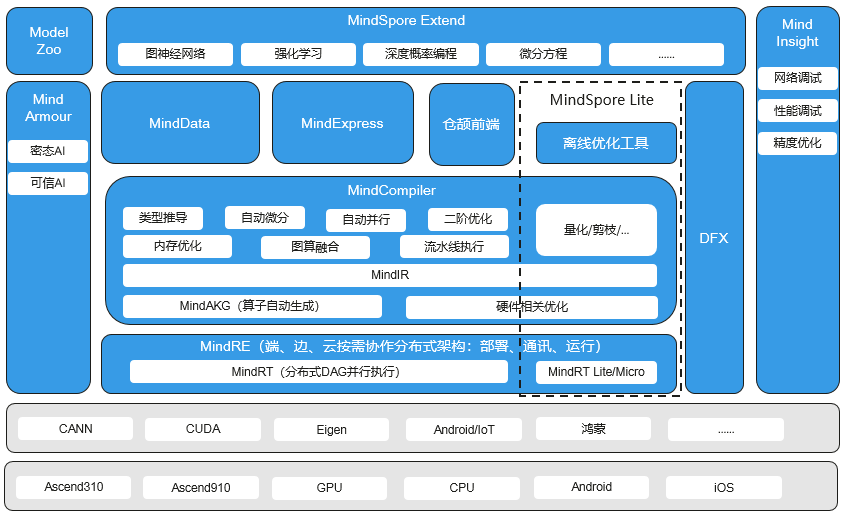
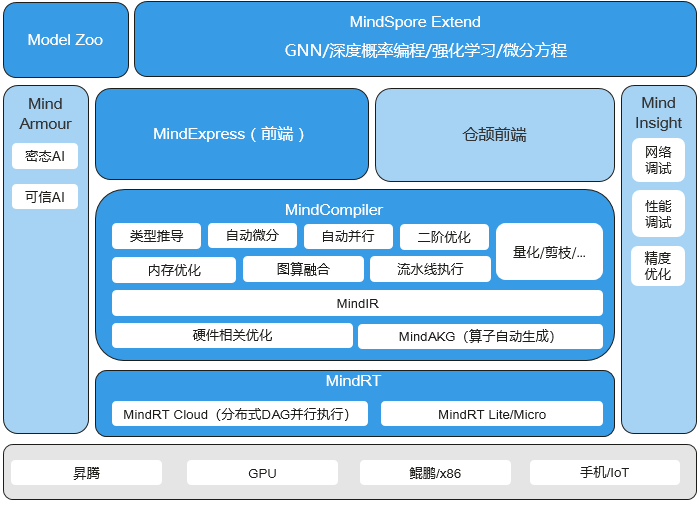
update mindspore docs r1.3

diff --git a/tutorials/source_en/introduction.md b/tutorials/source_en/introduction.md
@@ -38,8 +38,7 @@ The following figure shows the overall MindSpore architecture, which mainly cons
 - **MindSpore Extend**: MindSpore extension package to be contributed and built by more developers.
 - **MindExpress**: Python-based frontend expression. In the future, more frontends based on C/C++ and Java will be provided. Cangjie, Huawei's self-developed programming language frontend, is now in the pre-research phase. In addition, Huawei is working on interconnection with third-party frontends such as Julia to introduce more third-party ecosystems.
 - **MindCompiler**: core compiler of the layer, which implements three major functions based on the unified device-cloud MindIR, including hardware-independent optimization (type derivation, automatic differentiation, and expression simplification), hardware-related optimization (automatic parallelism, memory optimization, graph kernel fusion, and pipeline execution) and optimization related to deployment and inference (quantification and pruning). MindAKG is the automatic operator generation compiler of MindSpore and is being improved.
-- **MindRE**: all-scenario runtime, which covers the cloud, device, and smaller IoT scenarios.
-- **MindSpore Lite**：MindSpore Lite is an ultra-fast, intelligent, and simplified device AI engine that enables intelligent applications in all scenarios, provides E2E solutions for users, and helps users enable AI capabilities.
+- **MindRT**: all-scenario runtime, which covers the cloud, device, and smaller IoT scenarios.
 
 ![MindSpore](images/introduction2.png)
 

diff --git a/tutorials/source_zh_cn/introduction.md b/tutorials/source_zh_cn/introduction.md
@@ -34,8 +34,7 @@ MindSpore总体架构如下图所示，下面介绍主要的扩展层（MindSpor
 - **MindSpore Extend（扩展层）**：MindSpore的扩展包，期待更多开发者来一起贡献和构建。
 - **MindExpress（表达层）**：基于Python的前端表达，未来计划陆续提供C/C++、Java等不同的前端；MindSpore也在考虑支持华为自研编程语言前端-仓颉，目前还处于预研阶段；同时也在做与Julia等第三方前端的对接工作，引入更多的第三方生态。
 - **MindCompiler（编译优化层）**：图层的核心编译器，主要基于端云统一的MindIR实现三大功能，包括硬件无关的优化（类型推导、自动微分、表达式化简等）、硬件相关优化（自动并行、内存优化、图算融合、流水线执行等）、部署推理相关的优化（量化、剪枝等）；其中，MindAKG是MindSpore的自动算子生成编译器，目前还在持续完善中。
-- **MindRE（全场景运行时）**：这里含云侧、端侧以及更小的IoT。
-- **MindSpore Lite**：MindSpore Lite是一款极速、极智、极简的端侧AI引擎，使能全场景智能应用，为用户提供端到端的解决方案，帮助用户使能AI能力。
+- **MindRT（全场景运行时）**：这里含云侧、端侧以及更小的IoT。
 
 ![MindSpore](images/introduction2.png)
 

diff --git a/docs/mindspore/programming_guide/source_en/index.rst b/docs/mindspore/programming_guide/source_en/index.rst
@@ -61,7 +61,7 @@ MindSpore Programming Guide
    loss
    optim
    custom_net
-   network_advanced
+   network_component
 
 .. toctree::
    :maxdepth: 1

diff --git a/docs/mindspore/programming_guide/source_zh_cn/index.rst b/docs/mindspore/programming_guide/source_zh_cn/index.rst
@@ -61,7 +61,7 @@ MindSpore编程指南
    loss
    optim
    custom_net
-   network_advanced
+   network_component
 
 .. toctree::
    :maxdepth: 1

diff --git a/docs/mindspore/programming_guide/source_en/network_component.rst b/docs/mindspore/programming_guide/source_en/network_component.rst
@@ -1,4 +1,4 @@
-Advanced of Building the Network
+Common Network Components
 ================================
 
 .. toctree::

diff --git a/docs/mindspore/programming_guide/source_zh_cn/network_component.rst b/docs/mindspore/programming_guide/source_zh_cn/network_component.rst
@@ -1,4 +1,4 @@
-网络构建高级用法
+常用网络组件
 =================
 
 .. toctree::
